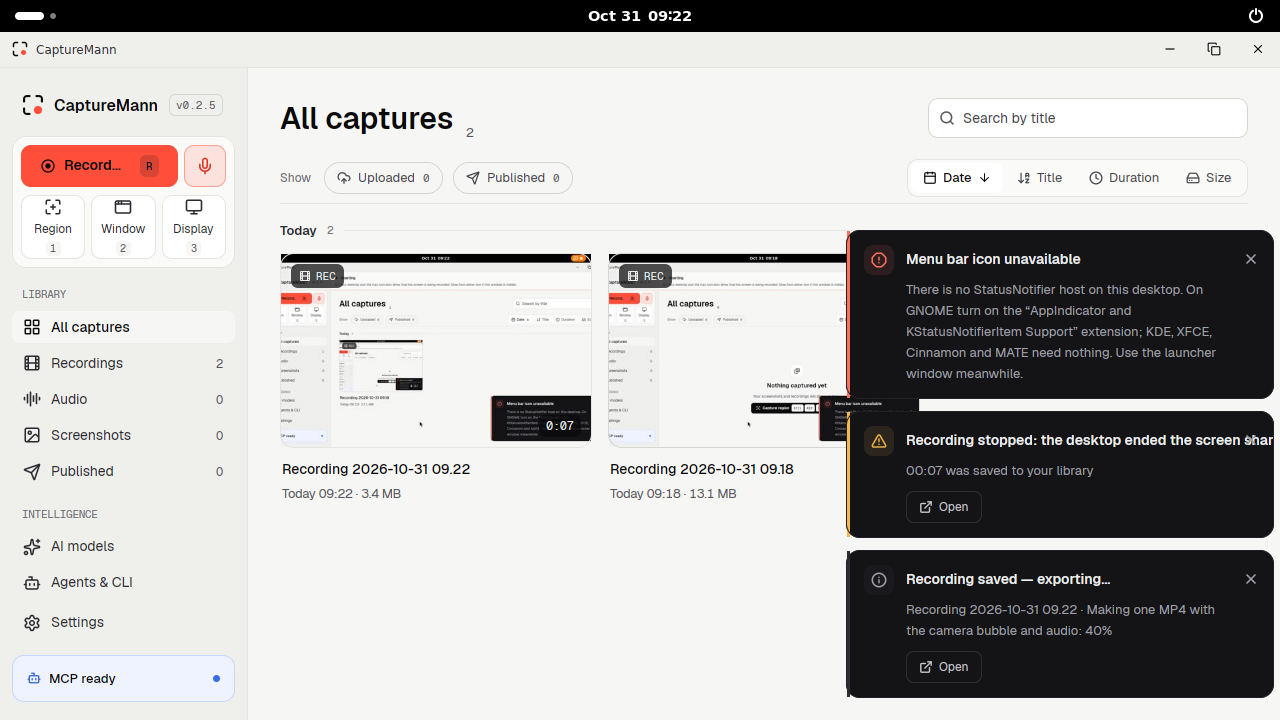
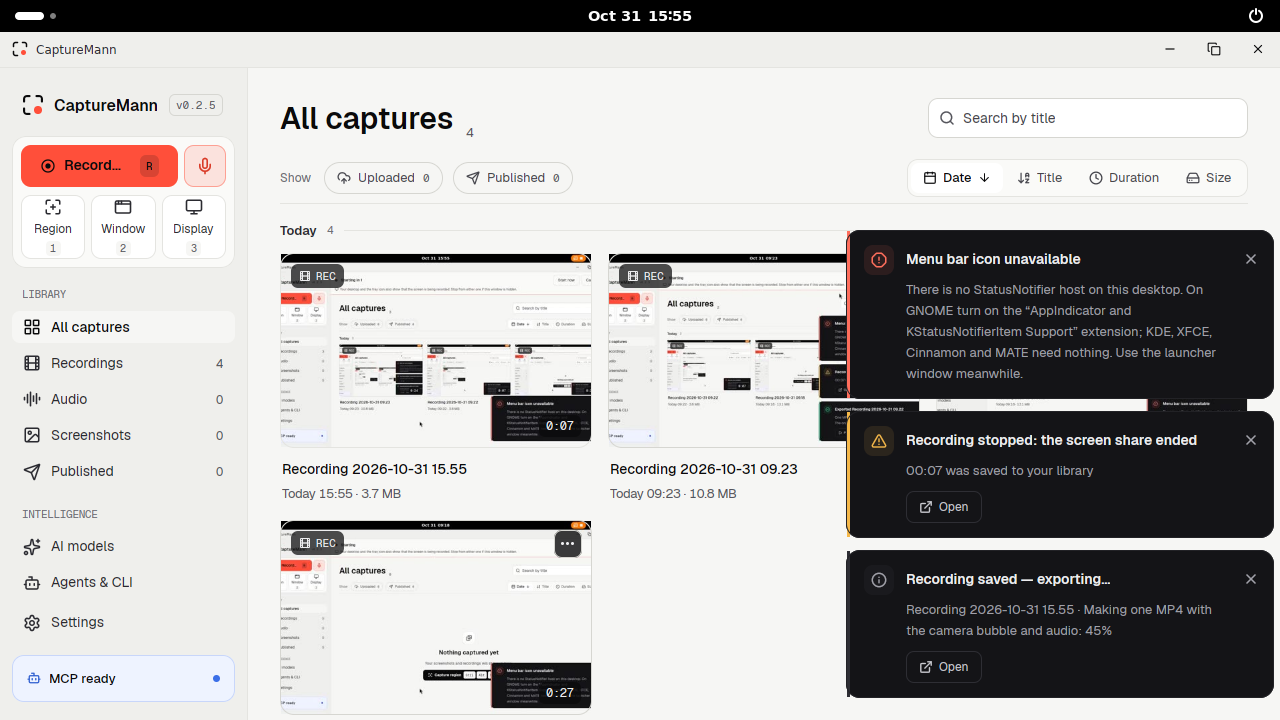
verification: L1 recording UI on Linux (VM, Wayland and X11), screenshots
Claude-Session: https://claude.ai/code/session_01XSehpSt8XR4fWZVhEifdPw

diff --git a/verification/L1-recording-ui-linux-2026-10-31-claude.md b/verification/L1-recording-ui-linux-2026-10-31-claude.md
@@ -1,0 +1,52 @@
+# L1 report: screen and audio recording in the desktop app on Linux (`CM_LINUX_RECORDING=1`)
+
+- **Date:** 2026-10-31
+- **Who:** Claude (run for the maintainer; nobody watched; pointer and keys were injected through Mutter RemoteDesktop on the Wayland run and with `xdotool` on the X11 run; every result below comes from a screenshot or a command answer I looked at)
+- **Machine:** QEMU virtual machine on a MacBook Pro (Apple M4 Pro), 4 vCPUs shared with other jobs, 8 GB, **aarch64**, Ubuntu 24.04, GNOME Shell 46 started with `--headless --wayland --virtual-monitor 1280x720` (software rendering: the app logs `ZINK: failed to choose pdev` and falls back), xdg-desktop-portal 1.18.4 + xdg-desktop-portal-gnome 46.2, PipeWire 1.0.5. Wayland run: the real session. X11 run: my own `Xvfb :96 -screen 0 1600x900x24` + openbox (the portal and PipeWire are still the Wayland session's, so a recording started there records the Wayland monitor; that run is for the UI paths only).
+- **Build:** `cargo build -j2 --no-default-features -p cm-desktop -p cm-daemon -p cm-cli` (debug) from the tree of commit `b93f4fa` minus the last test-only edit (binary built from `ec604b8`). Private `CAPTUREMANN_CONFIG_DIR`, `CAPTUREMANN_LIBRARY` and `CAPTUREMANN_SOCKET`; the portal restore token of the L0 run copied to `<config>/screencast-token` (mode 0600) so no dialog appears, except in steps 7 and 8 where it was removed on purpose.
+- **FFmpeg:** the distribution's `ffmpeg 6.1.1` on `PATH` (it has the native `vp9` decoder; the product's bundled FFmpeg has it too since `packaging/ffmpeg/build-linux.sh`, not exercised here).
+- **Fixture:** the app's own window (Studio) and the GNOME shell were on the recorded screen; nothing played sound; the microphone is the null source (silence).
+- **Screenshots:** `verification/L1-recording-ui-linux-2026-10-31-claude-screens/` (taken with `capturemann capture screenshot --display 1`, and `import -window root` on X11).
+
+This is a VM, not a real desktop. It shows that the app's recording UI drives the real daemon actions, the real portal and PipeWire recorder, and that the library, details page and quick export follow. It says nothing about KDE, a real GPU, a panel with a tray host, HiDPI, several monitors or a real microphone.
+
+## Steps
+
+| # | Step | Result | Notes |
+| --- | --- | --- | --- |
+| 1 | Record sheet on Wayland with a stored token (shot 01) | PASS | Display selected; Window and Region dimmed with the line "Recording a window or a region is not available on Linux yet. Record the whole screen."; the summary line says "the screen you choose in your desktop's share dialog" (the sheet no longer lists the displays the screenshot code sees); "Your desktop remembers the screen you shared before..." and "The video is encoded by the processor (VP9)..."; the webcam row is off with "Recording with a webcam bubble is not available on Linux yet." Mic and system audio rows are live. |
+| 2 | Same, token removed (shot 08) | PASS | The note reads "The first time, your desktop asks which screen to share. Choose the screen to record and confirm; CaptureMann remembers it for the next recordings." |
+| 3 | Start: countdown (shot 02) | PASS | The Studio window shows the banner "Starting in 3" with Start now and Cancel and the line saying that the desktop and the tray icon also show the recording. No separate window opened. |
+| 4 | Recording (shots 03, 04) | PASS | Banner: red dot, "Recording", timer 00:06, Pause, Mute microphone, Discard, Stop. The GNOME top bar shows its own orange screen-share and microphone icons (shot 03): the desktop's indicator, which the app cannot turn off. Pause: banner "Paused 00:22", Resume offered; `capturemann record status` says `paused ... 1 pause`. |
+| 5 | Stop from the banner; library (shots 05, 06) | PASS | `record status`: stopped; the bundle has `screen.mp4` (VP9), `mic.wav`, `mic.denoised.wav`, `manifest.json`; the library card shows a picture of the screen (poster by FFmpeg; the recording is 13 MB for 27 s), toast "Recording saved - exporting... 10%" then "Exported ... One MP4 with the screen, camera bubble and audio", `exports/quick.mp4` exists; the details page shows the poster, Play export, Play original, the folder button and the toast's Play / Reveal. The player in the app is the same FFmpeg-decoded preview as on macOS (editor) and "Play" is the system player (`xdg-open`), so playback of VP9 needs no new code. |
+| 6 | First-start portal dialog (shot 09, 10) | PASS | With no token, Start shows the banner "Starting" and the line "Your desktop may ask which screen to share. Choose the screen and press Share."; GNOME's "Share Screen" dialog appeared (with "Remember this selection" ticked); after Share the recording ran (shot 10) and `<config>/screencast-token` appeared (36 bytes, mode 0600): the daemon stores the token. The second recording started without a dialog (steps 1 to 5). |
+| 7 | Stream lost (shot 07) | PASS | The compositor's video node was destroyed with `pw-cli destroy` while recording: the banner went away, a warning toast says "Recording stopped: the screen share ended / 00:07 was saved to your library" with Open; the library has the recording; `record status` says stopped; a new recording can start. (GNOME's top-bar Stop item itself was not exercised: nothing here can click the shell's menu. It ends the same portal session.) |
+| 8 | Play with no video player installed (shot 14) | PASS | The VM has `xdg-open` but no default for `video/mp4`; the details page says "No program is set to open this file. Install a video player or choose one in your desktop's settings." (before this report's change the click did nothing and said nothing). |
+| 9 | X11 (Xvfb + openbox), default (shots 11, 12) | PASS after a fix | The sheet is the same. **Found:** Start answered "Recording didn't start: Display 60 not found" (the sheet listed the Xvfb display id 60; the recorder knows one display). Fixed in `cm-daemon` (`SourceFactory::adapt_target`, commit `72edec1`, test `any_listed_display_id_starts_the_one_screen_the_desktop_shares`); then the recording ran with the banner in the Studio window and stopped from it; `record status` stopped. |
+| 10 | X11 with `CM_LINUX_FLOATING_HUD=1` (shot 13) | PASS | The floating HUD (Stop, timer, pause, mic, camera off, draw, restart, discard) opened over the desktop with the translated chip "The mouse pointer is part of the video; it is not recorded..."; `record stop` ended the run. **Found:** the full-display indicator window is drawn black by a session without a compositing manager and marks the plan's hint size (1920x1080); it is not opened on Linux any more (commit `ec604b8`). |
+| 11 | Studio window closed when a recording starts | not run | The code path (`banner_instead_of_windows` opens the Studio window) is on every start; not driven from the VM with the window closed. |
+| 12 | Errors: `not_implemented` (window, region, camera), PipeWire or FFmpeg missing, portal cancelled | tested with fakes | Worded by `start_error_spec`, `not_implemented_text`, `screen_problem_text` with unit tests on macOS and Linux (Vietnamese strings added). The daemon answers were seen through the CLI in `L1-recording-product-linux`. A cancelled dialog, a stopped PipeWire and a missing FFmpeg were not provoked in the app (they would break other jobs sharing the VM or need a click I cannot send to the portal window reliably). |
+| 13 | Tray icon recording state and menu | not run | The VM has no StatusNotifier host (the app's own toast says so, shots 01 and 05). The tray plan (`recording::tray`, red/paused icons, Stop and Pause items) is shared with macOS and was tested against a stand-in host by the tray work. |
+| 14 | Audio-only recording sheet on Linux | not run | |
+| 15 | Quality choices for software VP9 | not done | The Record sheet has none; Settings -> Capture & recording (another agent's files) still offers H.264/HEVC and quality choices that mean nothing for the VP9 recorder. |
+| 16 | Unit tests | PASS | macOS: `cm-desktop` lib 1452 passed (1 ignored), `cm-daemon` `linux_recording` 6 passed, `recording_engine` 65 passed, `cm-i18n -- check` ok, `cargo clippy -p cm-desktop -p cm-daemon --no-default-features --all-targets -D warnings` clean, `check_target_os.py` ok. VM (Linux): `cargo test -p cm-desktop --lib --no-default-features` 1453 passed, 0 failed (it found four toast tests that assumed the Mac's buttons: fixed to name the system they test). |
+
+## Decisions and the rule behind the indicator
+
+* **No floating HUD, countdown disc or brackets on Linux** (default, both sessions): the portal records every pixel, so any window of ours over the recorded screen is in `screen.mp4` (REC-5.AC9 says it must not be), and Wayland cannot place or raise a window (no layer-shell on GNOME). The HUD's job is a banner at the top of the Studio window (`recording::surface`, `ui::recording::banner`), the same place toasts already go on Wayland. X11 can opt back in with `CM_LINUX_FLOATING_HUD=1` (HUD and countdown only).
+* **The rule** lives in `specs/features/03-recording.md` (REC-5: "The indicator can't be hidden by settings or by agents", AC5), `specs/02-agent-interface.md` (Never tier: "disable the recording indicator", NFR-11) and `specs/platform-acceptance.md` (REC-5, Linux: "the recording indicator stays visible to the user"). What meets it on Linux: (a) the banner, which a recording started from the tray, a hotkey, the CLI or an agent opens the Studio window for (`banner_instead_of_windows`); (b) the tray icon's red state with Stop and Pause in its menu, when a StatusNotifier host exists; (c) the desktop's own screen-share indicator, which GNOME and KDE show for every portal screen share and an app cannot disable (seen in shot 03).
+* **What is not possible on Wayland:** a guarantee. A compositor with no screen-share indicator (a bare wlroots session), no tray host and a Studio window the user minimised or put on another workspace leaves a recording with no visible sign; the Studio banner is only seen when that window is. A persistent notification through the portal was not built: the Notification portal cannot show a live timer or a Stop button the compositor would keep on top, and GNOME hides banners after a few seconds. Said plainly here and in `platform-acceptance.md`.
+* **Display id:** the recorder now maps whatever display id the caller gave to the one screen the portal dialog picks; the sheet shows no display chips on Linux (the desktop's dialog chooses).
+* **Poster and playback:** nothing macOS-only was involved: the poster is FFmpeg (needs a VP9 decoder; the bundled build has it), Play opens the system player, the editor preview decodes with FFmpeg. What changed: the FFmpeg error is no longer followed by "no thumbnail tool on this OS", and Play, Show in folder and links report "nothing is set to open this" (`xdg-open` exit code 3 or 4, read within 1.5 s).
+
+## Not done, found, left alone
+
+* Quality and codec choices for the VP9 recorder in Settings (not my files).
+* The Start sheet footer: the four keycaps "Ctrl Alt Shift R" overflow the row and the line "Start or stop from anywhere" is false on GNOME 46 Wayland (no GlobalShortcuts portal).
+* The permissions page still lists the Camera ("Shows your webcam in the bubble") although Linux has no camera recording.
+* The Studio's own window is in a recording of its screen (macOS captures it on purpose, REC-6.AC8).
+* A real desktop, the GNOME top-bar Stop item, the KDE indicator, a tray host, 4K/60, real GPU, A/V sync by flash and beep were not looked at.
+
+## Verdict
+
+PARTIAL. In the headless GNOME session the app's Record sheet, banner, countdown, pause, stop, the first-start share dialog, a lost share, the library picture, the details page and the "nothing opens it" message work behind `CM_LINUX_RECORDING=1`, and an X11 session works with the banner (and, opted in, the floating HUD). Not shown: any real desktop or panel, the tray's recording state, the audio-only sheet, errors provoked inside the app, and the rule that a recording is never without a visible indicator cannot be guaranteed on a Wayland compositor that shows none.
